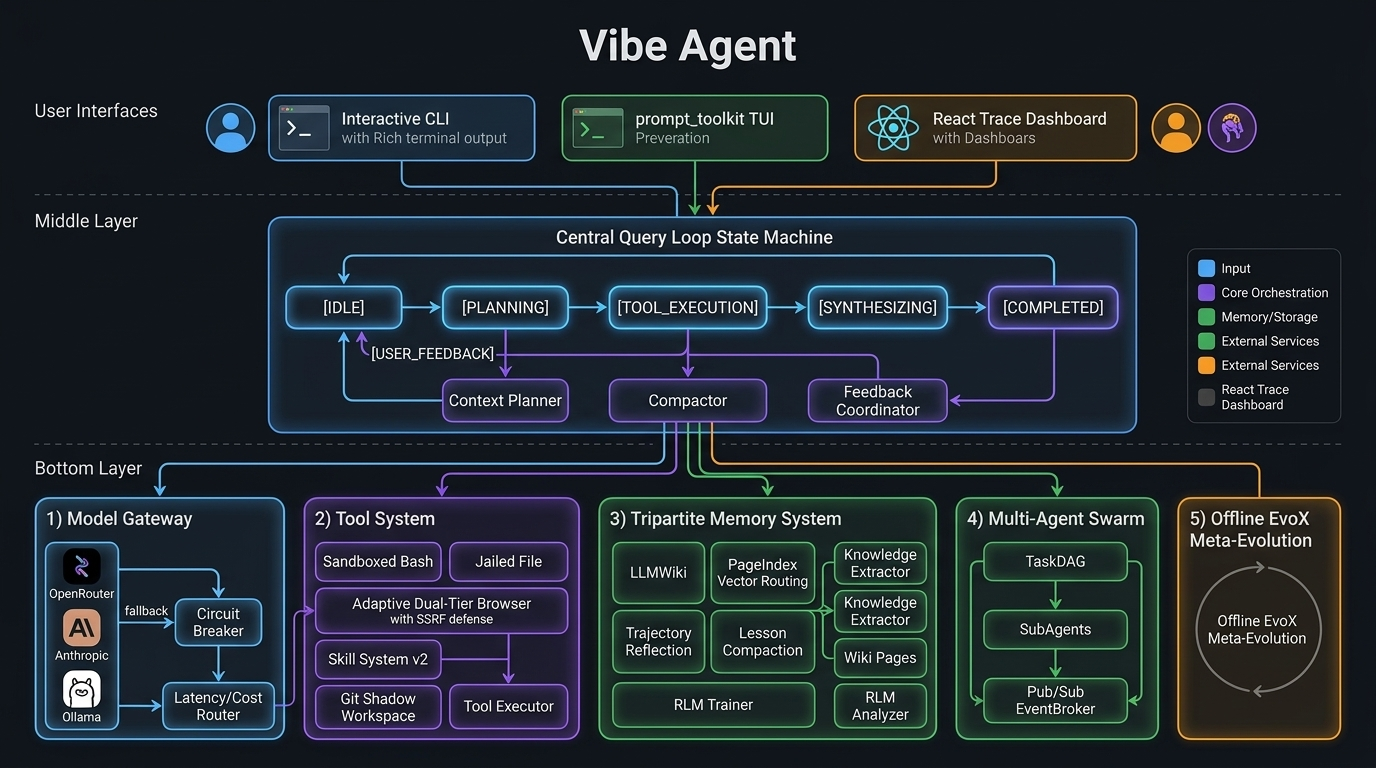
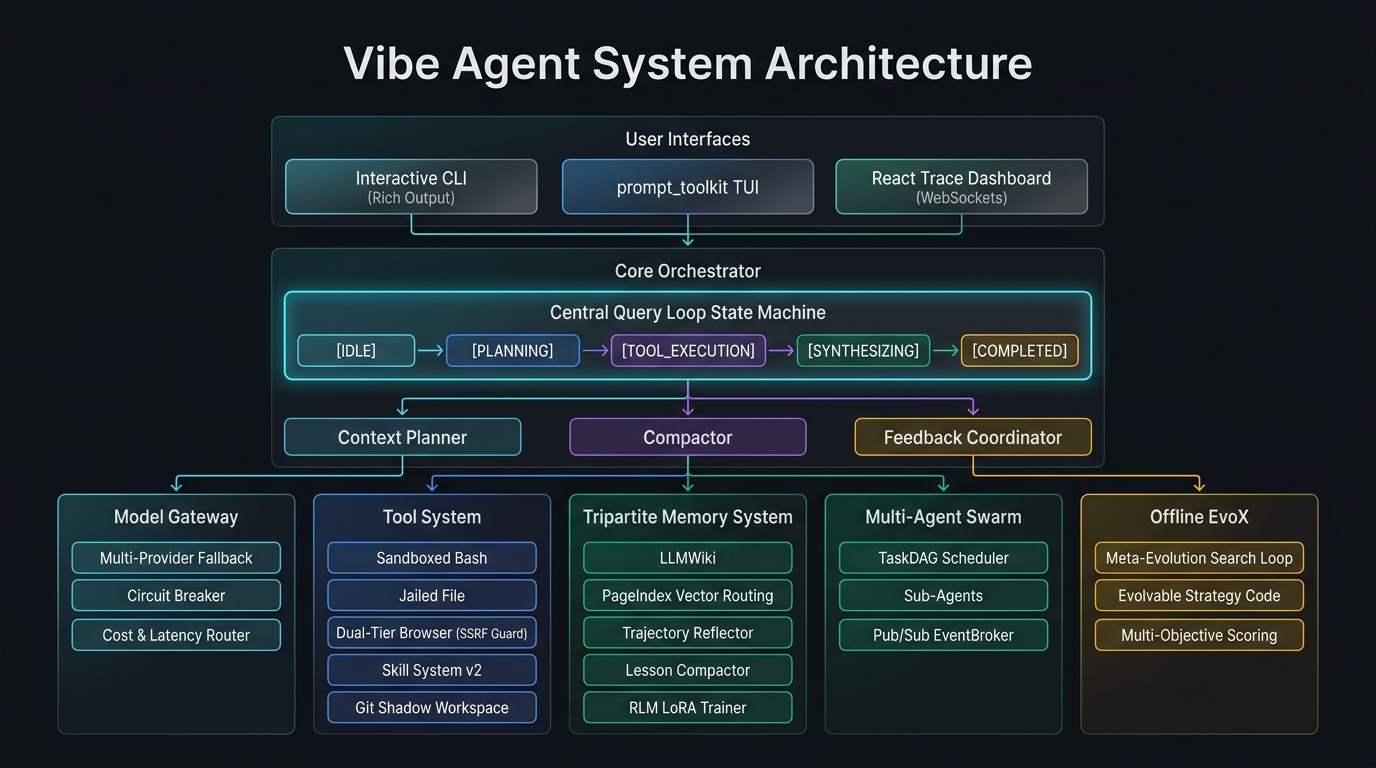
docs: refine redaction wording, fix link syntax, and polish architecture diagram
- Removed inflated pattern count claim across README.md, ARCHITECTURE.md, and CHANGELOG.md in favor of accurate qualitative description
- Fixed absolute file:// link in CHANGELOG.md to repo-relative text
- Regenerated docs/architecture_diagram.png to eliminate text typos, duplicate legend entries, and duplicated memory subsystem items

diff --git a/docs/CHANGELOG.md b/docs/CHANGELOG.md
@@ -8,7 +8,7 @@ All notable changes to Vibe Agent will be documented in this file.
 
 ### Security & Hardening
 - **SSRF Redirect & Cloud Metadata Protection** (`vibe/tools/browser.py`): Replaced blind redirect following with a manual redirect resolution loop validating `is_safe_url()` against the SSRF policy on every redirect hop (`Location`). Normalized IPv6-mapped IPv4 addresses (`::ffff:...`), and expanded CIDR blocklists to include Carrier-Grade NAT (`100.64.0.0/10`) and Alibaba Cloud metadata (`100.100.100.200/32`).
-- **Secret Redaction Consolidation** (`vibe/harness/security/redactor.py`): Migrated 40+ comprehensive secret detection patterns (Slack tokens/webhooks, Google API keys, Stripe live/test keys, JWTs, Discord tokens/webhooks, basic auth, URL query secret params) into `SecretRedactor` to protect all stored session checkpoints, traces, and logs.
+- **Secret Redaction Consolidation** (`vibe/harness/security/redactor.py`): Consolidated comprehensive secret detection patterns (Slack tokens/webhooks, Google API keys, Stripe live/test keys, JWTs, Discord tokens/webhooks, basic auth, URL query secret params) into `SecretRedactor` to protect all stored session checkpoints, traces, and logs.
 - **Browser Tool Alias & Interaction Safety**: Registered `FetchUrlTool` (`fetch_url`) alias in `QueryLoopFactory` and added explicit error handling when interactive click actions are attempted in static mode.
 
 ### Fixed & Refactored
@@ -18,7 +18,7 @@ All notable changes to Vibe Agent will be documented in this file.
 - **CLI PageIndex Configuration Path**: Updated `wiki compact` and `wiki index rebuild` to read `DEFAULT_CONFIG.memory.pageindex.index_path` instead of hardcoding paths.
 
 ### Removed & Consolidated
-- **Dashboard Backend Consolidation**: Unified the dashboard on [`vibe/dashboard/server.py`](file:///Users/rsong/DevSpace/vibe-agent/vibe/dashboard/server.py) and purged legacy secondary files `api.py` and `data.py`.
+- **Dashboard Backend Consolidation**: Unified the dashboard on `vibe/dashboard/server.py` and purged legacy secondary files `api.py` and `data.py`.
 - **Duplicate Test & Shim Purge**: Merged 17 CRUD/similarity test cases into canonical harness test suites and deleted root test duplicates (`tests/test_trace_store.py`, `tests/test_session_store.py`) alongside obsolete prototypes (`vector_index_upgrade.py`, `url_safety.py`, `redaction.py`).
 - **Litter & Stray Artifacts**: Untracked `.tmp/` prompt drafts from git and purged local working tree artifacts.
 - Test suite: **1,823 tests passing**.

diff --git a/README.md b/README.md
@@ -20,7 +20,7 @@ Vibe Agent is an open, visual-first interactive CLI agent harness. It is designe
 - **Multi-Agent Swarm**: DAG-based orchestration of specialized sub-agents (Research, Coding, Critic, Planner) with Pub/Sub message bus, broadcast deduplication, and shared wiki.
 - **React Trace Dashboard**: Web UI for session observability — timeline, wiki graph, telemetry charts, system stats. Dark theme, real-time WebSocket updates.
 - **Preference Layer**: 8 persistent heuristics converting user feedback into agent behavior — tool defaults, approval rules, style, macros, recovery, compaction, provider routing, extraction.
-- **Secret Redaction**: Comprehensive 40+ pattern stripping of API keys (OpenAI, AWS, GitHub, Slack, Google, Stripe, Discord, JWTs, private keys) and passwords from trace stores and logs.
+- **Secret Redaction**: Comprehensive pattern stripping of API keys (OpenAI, AWS, GitHub, Slack, Google, Stripe, Discord, JWTs, private keys) and passwords from trace stores and logs.
 - **Interactive CLI**: Markdown-rendered responses, structured tool-call panels (name, args, duration, truncated output), unified error panels, streaming with native reasoning/thinking display, persistent history, and rich skill/wiki/memory management commands.
 
 ---

diff --git a/docs/ARCHITECTURE.md b/docs/ARCHITECTURE.md
@@ -236,7 +236,7 @@ Native skill format with TOML frontmatter (`+++` delimited):
     - **Performance:** Singleton loader with 1000-entry LRU cache.
     - **Search:** Vector similarity with keyword pre-filtering to minimize search space.
 *   **Secret Redactor** (`vibe/harness/security/redactor.py`):
-    - Comprehensive 40+ pattern regex redaction layer for stripping credentials (OpenAI, AWS, GitHub, Slack, Google, Stripe, Discord, JWTs, private keys, connection passwords) before they hit any persistence layer (TraceStore, EvalStore, Audit Logs).
+    - Comprehensive pattern regex redaction layer for stripping credentials (OpenAI, AWS, GitHub, Slack, Google, Stripe, Discord, JWTs, private keys, connection passwords, URL query secrets) before they hit any persistence layer (TraceStore, EvalStore, Audit Logs).
 *   **EvalStore:** SQLite storage for `evals` and `eval_results`.
 *   **Tripartite Memory System** (enabled by default):
     - **LLMWiki** (`wiki.py`): Markdown-based long-term memory with strict file locking and parallelized backlink resolution. Uses FlashLLM for contradiction detection. Read-time gating via `is_page_injectable` (status + contradiction flags); archived pages are excluded but never deleted.
